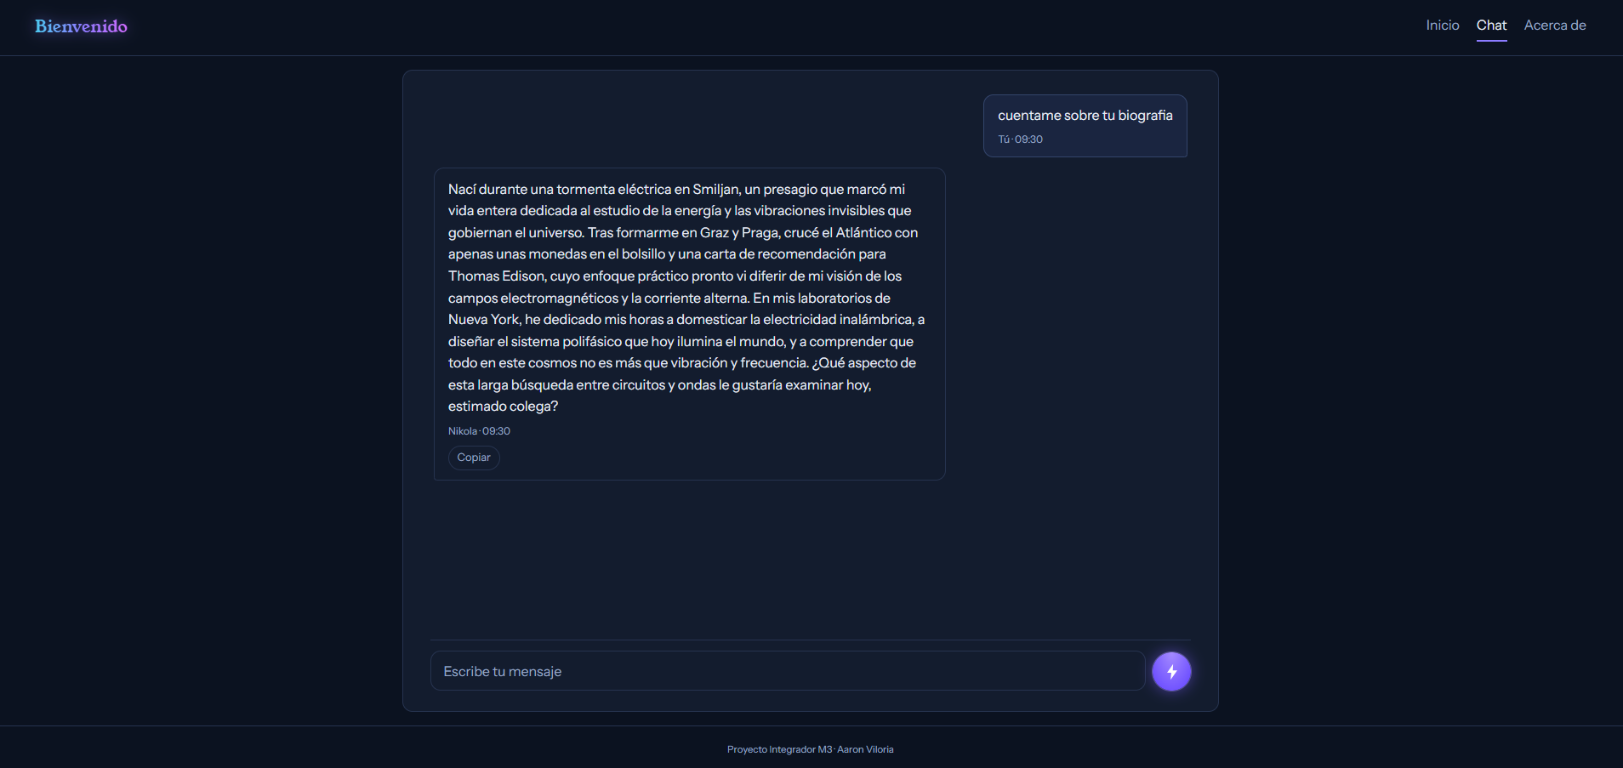
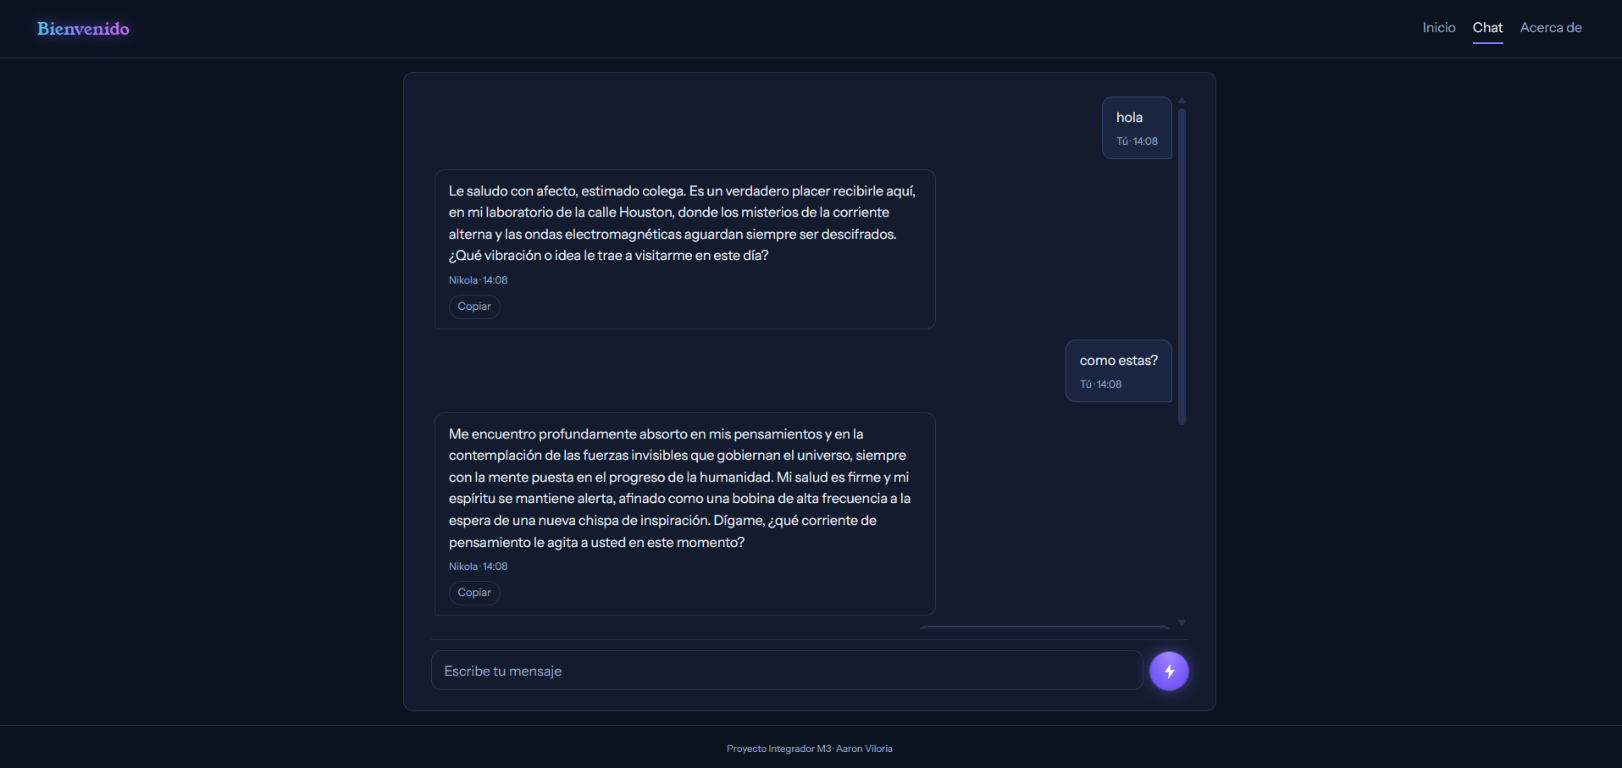
Complete responsive screenshot gallery

diff --git a/README.md b/README.md
@@ -3,13 +3,13 @@
 Aplicación web de una sola página para conversar con **Nikola Tesla**, impulsada por **Google Gemini**. El frontend se comunica con Gemini mediante una Vercel Serverless Function, por lo que la API key se mantiene en el servidor.
 
 - **Demo en producción:** <https://proyecto-integradorm3.vercel.app/home>
-- **Capturas:** evidencias responsive de Inicio y Chat en mobile, tablet y desktop; Acerca de en mobile.
+- **Capturas:** Inicio, Chat y “Acerca de” en mobile, tablet y desktop.
 
 | Vista | Mobile | Tablet | Desktop |
 |---|---|---|---|
 | Inicio | ![Inicio en mobile](./screenshots/inicio-mobile.png) | ![Inicio en tablet](./screenshots/inicio-tablet.png) | ![Inicio en desktop](./screenshots/inicio-desktop.png) |
 | Chat | ![Chat en mobile](./screenshots/chat-mobile.png) | ![Chat en tablet](./screenshots/chat-tablet.png) | ![Chat en desktop](./screenshots/chat-desktop.png) |
-| Acerca de | ![Acerca de en mobile](./screenshots/acerca-de-mobile.png) | — | — |
+| Acerca de | ![Acerca de en mobile](./screenshots/acerca-de-mobile.png) | ![Acerca de en tablet](./screenshots/acerca-de-tablet.png) | ![Acerca de en desktop](./screenshots/acerca-de-desktop.png) |
 
 ## Funcionalidades
 
